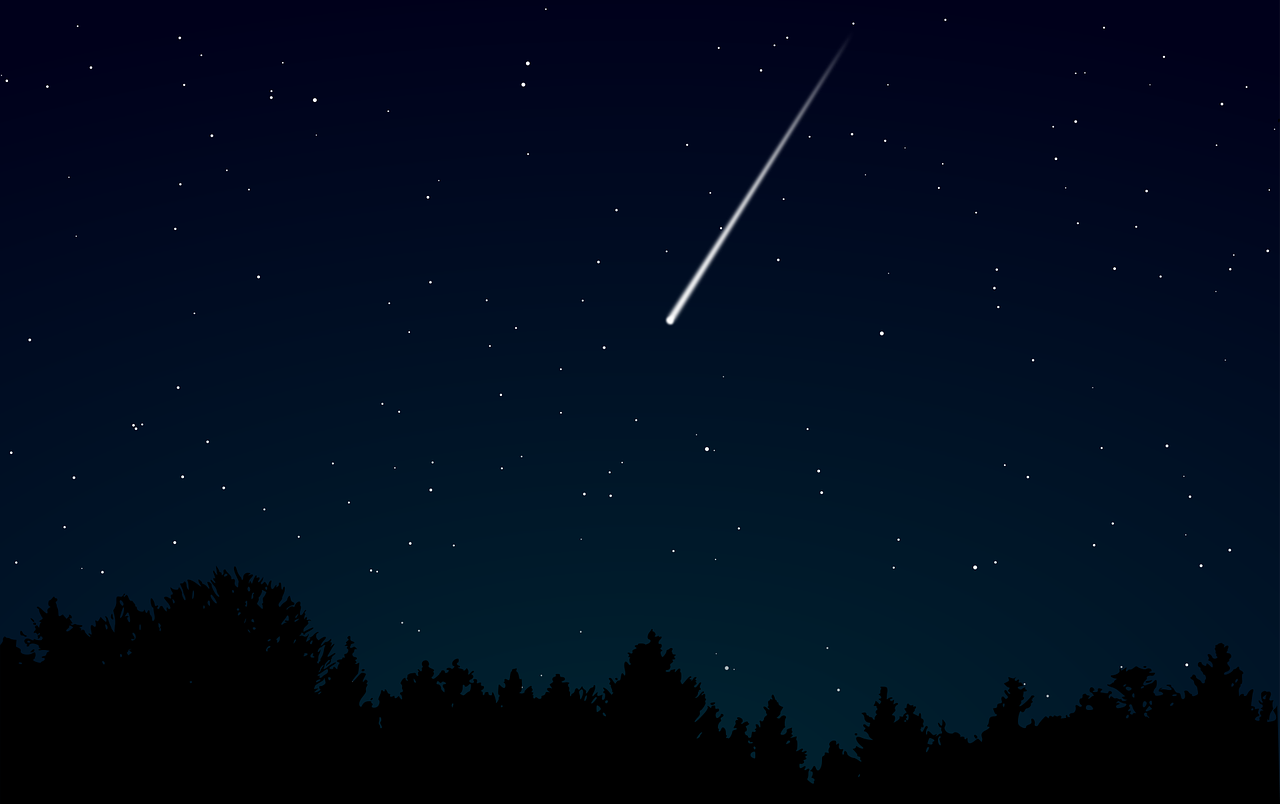
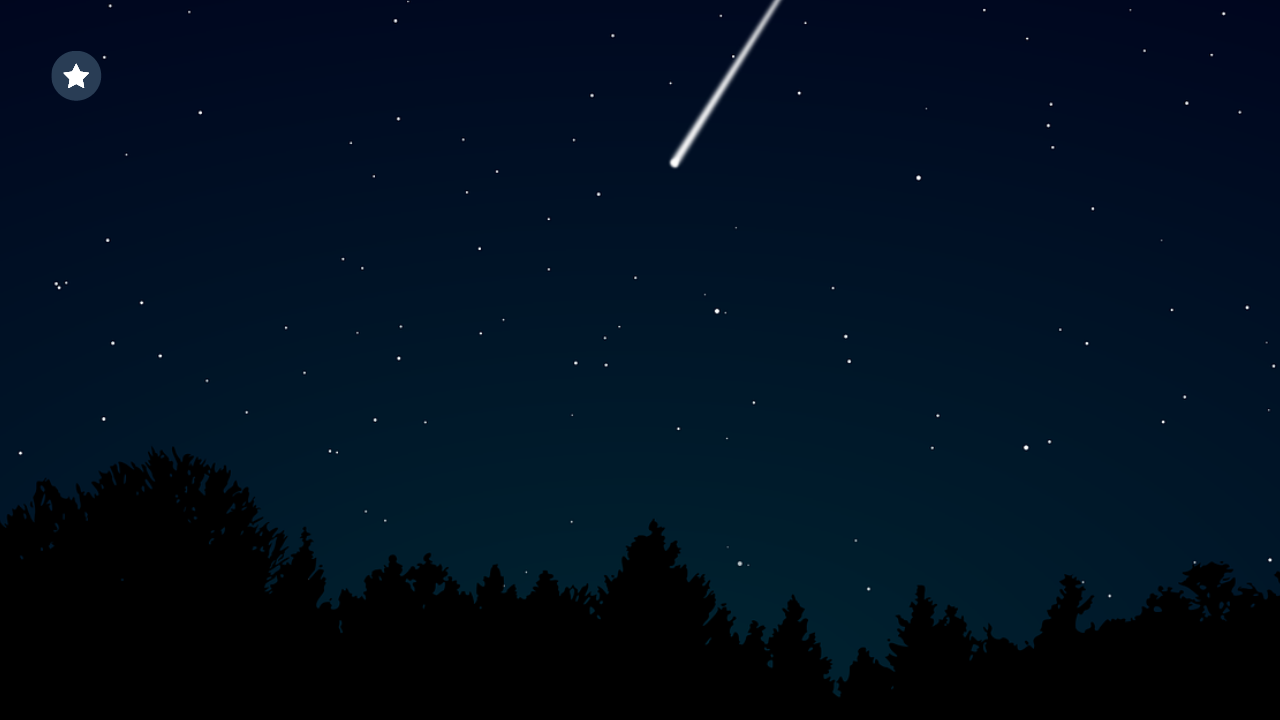
Feature troca skin

diff --git a/main.py b/main.py
@@ -101,7 +101,8 @@ def inicializa():
     assets = {"fundo":pygame.transform.scale(pygame.image.load(path / 'imagens/wallpaper_estrelas.jpeg'), (1280,720))
     , "fundo_instrucoes": pygame.transform.scale(pygame.image.load(path / 'imagens/fundo_instrucoes.png'), (1280,720)),
     'fundo_inicio': pygame.transform.scale(pygame.image.load(path / 'imagens/wallpaper_inicio.png'), (1280,720)),"selecionar": selecionar, "bomb": bomb,
-    "trilha": trilha, "trilha_sonora": pygame.mixer.Channel(0), "efeitos_sonoros":pygame.mixer.Channel(1)}
+    "trilha": trilha, "trilha_sonora": pygame.mixer.Channel(0), "efeitos_sonoros":pygame.mixer.Channel(1),
+    'fundo_personagens': pygame.transform.scale(pygame.image.load(path / 'imagens/fundo_personagens.png'), (1280, 720))}
     contador = 0
 
     
@@ -110,12 +111,12 @@ def inicializa():
         "estrela": estrela,"estrelas": estrelas, "alvos":alvos, "alvo":alvo,
         "planetas":planetas,"planeta":[planeta], "em_andamento": False, 
         "velocidade": np.array([0,0]),"atingiu": False, "pontos": 0, "arrastando": False, 
-        "tela_inicial": True, "tela_final": False, "tela_jogo": False, "tela_instrucoes": False, "tela_creditos": False,
+        "tela_inicial": True, "tela_final": False, "tela_jogo": False, "tela_instrucoes": False, "tela_creditos": False, "tela_personagens": False,
         'play_again_rect': play_again_rect, 'exit_rect': exit_rect,'principal_menu_rect': principal_menu_rect, 'screen_help_rect': screen_help_rect,
         'font3':font3,'all_help_screen': all_help_screen, "fase": 1, "inicio_fase": True,
         'font3':font3,'all_help_screen': all_help_screen, "record":  str(open(path / 'record.txt', 'r').read()), "poeiras": poeiras,'poeira':poeira,'asteroide': [asteroide],
          'asteroides': asteroides, 'contador': contador, 'vidas': vidas, 'vida': vida, 'num_vidas': 5, "fim_de_jogo":False, 'game_overs':game_overs, 'game_over':game_over,
-         'acertou_3_seguidas':0
+         'acertou_3_seguidas':0, "skin": 'padrao'
      
     }
     return window, assets, state
@@ -155,6 +156,7 @@ def desenha(window: pygame.Surface, assets, state):
         posicao_sair = sair.get_rect()
         posicao_instrucoes = instrucoes.get_rect()
         posicao_record = pontos_record.get_rect()
+        botao_personagens = pygame.Rect(51, 51, 50, 50)
 
         # Define as posições dos textos
         posicao_iniciar_jogo.topright = (700, 300)
@@ -168,6 +170,7 @@ def desenha(window: pygame.Surface, assets, state):
         window.blit(sair, posicao_sair)
         window.blit(pontos_record, posicao_record)
 
+
         # Verifica se o mouse está sobre um dos botões e altera a cor do texto
         if posicao_iniciar_jogo.collidepoint(pygame.mouse.get_pos()):
             
@@ -180,6 +183,11 @@ def desenha(window: pygame.Surface, assets, state):
                 state['tela_jogo'] = True
         else:
             COR_1 = (255, 255, 255)
+            
+        if botao_personagens.collidepoint(pygame.mouse.get_pos()):
+            if pygame.mouse.get_pressed()[0]:
+                state['tela_inicial'] = False
+                state['tela_personagens'] = True
 
         if posicao_sair.collidepoint(pygame.mouse.get_pos()):
            
@@ -205,8 +213,118 @@ def desenha(window: pygame.Surface, assets, state):
         else:
             COR_3 = (255, 255, 255)
 
-        
+    if state['tela_personagens']:
+        # Define a fonte e tamanho da fonte para o texto 'Voltar'
+        fonte = pygame.font.SysFont('Arial', 24)
 
+        # Renderiza o texto 'Voltar' com a fonte definida
+        estrela_azul = fonte.render('Estrela Azul', True, (0,0,0))
+        estrela_ventos = fonte.render('Estrela Ventos', True, (0,0,0))
+        estrela_mario = fonte.render('Estrela Mario', True, (0,0,0))
+        estrela_rosa = fonte.render('Estrela Rosa', True, (0,0,0))
+        estrela_vermelha = fonte.render('Estrela Vermelha', True, (0,0,0))
+        estrela_padrao = fonte.render('Estrela Padrao', True, (0,0,0))
+        menu = fonte.render("Menu", True, (255,255,255))
+
+        # Obtém as dimensões da imagem de 'Voltar' renderizada
+        posicao_azul = estrela_azul.get_rect()
+        posicao_ventos = estrela_ventos.get_rect()
+        posicao_mario = estrela_mario.get_rect()
+        posicao_rosa = estrela_rosa.get_rect()
+        posicao_vermelha = estrela_vermelha.get_rect()
+        posicao_padrao = estrela_padrao.get_rect()
+        posicao_menu = menu.get_rect()
+
+        # Define a posição da imagem de 'Voltar' no canto superior direito da tela
+        posicao_azul.center = (181,150)
+        posicao_ventos.center = (181,350)
+        posicao_mario.center = (181,550)
+        posicao_rosa.center = (546,150)
+        posicao_vermelha.center = (546,350)
+        posicao_padrao.center = (546,550)
+        posicao_menu.center = (1200,670)
+        # Desenha a imagem de fundo da tela de instruções na janela
+        window.blit(assets['fundo_personagens'], (0,0))
+        imagem_estrela = pygame.image.load(path / f"imagens/estrela_{state['skin']}.png")
+        imagem_estrela = pygame.transform.scale(imagem_estrela, (200,200))
+        # Obtém retângulo da imagem
+        rect_imagem_estrela = imagem_estrela.get_rect()
+        # Define a posição central da imagem
+        rect_imagem_estrela.center = (1008, 300)
+        window.blit(imagem_estrela, rect_imagem_estrela)
+
+        # Verifica se o mouse está sobre a imagem de 'Voltar'
+        if posicao_azul.collidepoint(pygame.mouse.get_pos()):
+            estrela_azul = fonte.render('Estrela Azul', True, (255,0,0))
+            # Verifica se o botão esquerdo do mouse está pressionado
+            if pygame.mouse.get_pressed()[0]:
+                # Define as variáveis de estado para retornar à tela inicial
+                assets['efeitos_sonoros'].play(assets['selecionar'])
+                time.sleep(0.3)
+                state['skin'] = 'azul'
+                state['estrela'].update(state['velocidade'], False, state['skin'])
+        if posicao_ventos.collidepoint(pygame.mouse.get_pos()):
+            estrela_ventos = fonte.render('Estrela Ventos', True, (255,0,0))
+            # Verifica se o botão esquerdo do mouse está pressionado
+            if pygame.mouse.get_pressed()[0]:
+                # Define as variáveis de estado para retornar à tela inicial
+                assets['efeitos_sonoros'].play(assets['selecionar'])
+                time.sleep(0.3)
+                state['skin'] = 'ventos'
+                state['estrela'].update(state['velocidade'], False, state['skin'])
+        if posicao_mario.collidepoint(pygame.mouse.get_pos()):
+            estrela_mario = fonte.render('Estrela Mario', True, (255,0,0))
+            # Verifica se o botão esquerdo do mouse está pressionado
+            if pygame.mouse.get_pressed()[0]:
+                # Define as variáveis de estado para retornar à tela inicial
+                assets['efeitos_sonoros'].play(assets['selecionar'])
+                time.sleep(0.3)
+                state['skin'] = 'mario'
+                state['estrela'].update(state['velocidade'], False, state['skin'])
+        if posicao_rosa.collidepoint(pygame.mouse.get_pos()):
+            estrela_rosa = fonte.render('Estrela Rosa', True, (255,0,0))
+            # Verifica se o botão esquerdo do mouse está pressionado
+            if pygame.mouse.get_pressed()[0]:
+                # Define as variáveis de estado para retornar à tela inicial
+                assets['efeitos_sonoros'].play(assets['selecionar'])
+                time.sleep(0.3)
+                state['skin'] = 'rosa'
+                state['estrela'].update(state['velocidade'], False, state['skin'])
+        if posicao_vermelha.collidepoint(pygame.mouse.get_pos()):
+            estrela_vermelha = fonte.render('Estrela Vermelha', True, (255,0,0))
+            # Verifica se o botão esquerdo do mouse está pressionado
+            if pygame.mouse.get_pressed()[0]:
+                # Define as variáveis de estado para retornar à tela inicial
+                assets['efeitos_sonoros'].play(assets['selecionar'])
+                time.sleep(0.3)
+                state['skin'] = 'vermelha'
+                state['estrela'].update(state['velocidade'], False, state['skin'])
+        if posicao_padrao.collidepoint(pygame.mouse.get_pos()):
+            estrela_padrao = fonte.render('Estrela Padrao', True, (255,0,0))
+            # Verifica se o botão esquerdo do mouse está pressionado
+            if pygame.mouse.get_pressed()[0]:
+                # Define as variáveis de estado para retornar à tela inicial
+                assets['efeitos_sonoros'].play(assets['selecionar'])
+                time.sleep(0.3)
+                state['skin'] = 'padrao'
+                state['estrela'].update(state['velocidade'], False, state['skin'])
+        if posicao_menu.collidepoint(pygame.mouse.get_pos()):
+            menu = fonte.render('Menu', True, (255,0,0))
+            # Verifica se o botão esquerdo do mouse está pressionado
+            if pygame.mouse.get_pressed()[0]:
+                # Define as variáveis de estado para retornar à tela inicial
+                assets['efeitos_sonoros'].play(assets['selecionar'])
+                time.sleep(0.3)
+                state['tela_personagens'] = False
+                state['tela_inicial'] = True
+        # Desenha a imagem de 'Voltar' na janela na posição definida
+        window.blit(estrela_azul, posicao_azul)
+        window.blit(estrela_ventos, posicao_ventos)
+        window.blit(estrela_mario, posicao_mario)
+        window.blit(estrela_rosa, posicao_rosa)
+        window.blit(estrela_vermelha, posicao_vermelha)
+        window.blit(estrela_padrao, posicao_padrao)
+        window.blit(menu, posicao_menu)
         
     if state['tela_instrucoes']:
         

diff --git a/classes.py b/classes.py
@@ -12,7 +12,7 @@ class Estrela(pygame.sprite.Sprite):
         def __init__(self):
             pygame.sprite.Sprite.__init__(self)
             # Carrega a imagem da estrela e redimensiona para o tamanho desejado
-            self.image = pygame.image.load(path / "imagens/estrela.png")
+            self.image = pygame.image.load(path / "imagens/estrela_padrao.png")
             self.image = pygame.transform.scale(self.image, (30,30))
             
             self.rect = self.image.get_rect()
@@ -22,8 +22,15 @@ class Estrela(pygame.sprite.Sprite):
             self.rect.centery = posicao_inicial_estrela[1]
 
 
-        def update(self, velocidade ,atingiu):
+        def update(self, velocidade ,atingiu, estrela=''):
             '''Método para atualizar a posição dos pássaros e trocar as imagens dos pássaros para dar animação'''
+            if not estrela == '' :
+                self.image = pygame.image.load(path / f"imagens/estrela_{estrela}.png")
+                self.image = pygame.transform.scale(self.image, (30,30))
+                # Definindo a posição
+                self.rect = self.image.get_rect()
+                self.rect.centerx = posicao_inicial_estrela[0]
+                self.rect.centery = posicao_inicial_estrela[1]
 
             # Se a estrela colidir com o alvo, ela volta para a posição inicial
             if atingiu:
